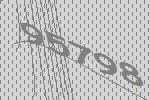
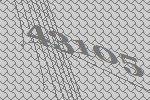
Data extraction works and is displayed in json, only when qr code is found.

diff --git a/src/autoavanza.py b/src/autoavanza.py
@@ -11,8 +11,11 @@ import hashlib
 import base64
 from streamlit_pdf_viewer import pdf_viewer
 from PIL import Image
+import urllib3
+from selenium.common.exceptions import WebDriverException
 
-from OCR import DataExtractor
+
+from OCR import TextExtractor
 from DocumentClassification import DocumentClassifier
 from Staging import Staging
 from QRExctraction import CFDIValidator
@@ -31,6 +34,15 @@ display_order = [
     "TARJETA CIRCULACION REVERSO",
     "REVISAR"
 ]
+
+documents_revised = [
+                    "FACTURA",
+                    "FACTURA REVERSO",
+                    "INE",
+                    "INE REVERSO",
+                    "TARJETA CIRCULACION",
+                    "TARJETA CIRCULACION REVERSO",
+                ]
 
 logo_path = "../assets/img/logo.png"
 
@@ -51,7 +63,7 @@ def process_and_classify(directory):
             for filename in os.listdir(os.path.join(directory, folder)):
                 if filename.endswith(".pdf") and filename != '.DS_Store':
                     pdf_path = os.path.join(directory, folder, filename)
-                    data_extractor = DataExtractor()
+                    data_extractor = TextExtractor()
                     image_path = data_extractor.convert_pdf_to_image(pdf_path)
                     results = data_extractor.image_to_text(image_path)
                     # data_extractor.delete_image(image_path)
@@ -64,6 +76,8 @@ def process_and_classify(directory):
 
 def get_file_hash(file):
     return hashlib.md5(file.getbuffer()).hexdigest()
+
+
 
 # Streamlit interface
 logo = Image.open(logo_path)
@@ -98,7 +112,6 @@ if uploaded_file is not None:
             return display_order.index(item[1]["type"]) if item[1]["type"] in display_order else len(display_order)
 
         sorted_documents_list = sorted(classified_documents_list, key=sort_key)
-        print(sorted_documents_list)
 
         st.markdown("## 📄 Revisar y Confirmar Clasificación")
 
@@ -158,30 +171,76 @@ if uploaded_file is not None:
 
         # Update the session state with the potentially renamed files
         st.session_state.classified_documents_data.update(updated_documents_data)
-        print(st.session_state.classified_documents_data)
         
         if st.button("✅ Apruebo Clasificación", key="aprobacion_clasificacion"):
             factura_file = None
+            document_files = {}
+
             for doc_info in st.session_state.classified_documents_data.values():
-                if doc_info["type"] == "FACTURA":
-                    factura_file = doc_info["filename"]
-                    break
-                if doc_info["type"] == "FACTURA REVERSO":
-                    factura_reverso_file = doc_info["filename"]
-                    break
-                if doc_info["type"] == "INE":
-                    factura_file = doc_info["filename"]
-                    break
-                if doc_info["type"] == "INE REVERSO":
-                    factura_file = doc_info["filename"]
-                    break
-                if doc_info["type"] == "TARJETA CIRCULACION":
-                    factura_file = doc_info["filename"]
-                    break
-                if doc_info["type"] == "TARJETA CIRCULACION REVERSO":
-                    factura_file = doc_info["filename"]
-                    break
-                
+                doc_type = doc_info["type"]
+                filename = doc_info["filename"]
+                text = doc_info["text"]
+
+                if doc_type in documents_revised:
+                    document_files[doc_type] = {"filename": filename, "text": text}
+
+                factura_file = document_files.get("FACTURA", {}).get("filename")
+                factura_text = document_files.get("FACTURA", {}).get("text")
+
+                factura_reverso_file = document_files.get("FACTURA REVERSO", {}).get("filename")
+                factura_reverso_text = document_files.get("FACTURA REVERSO", {}).get("text")
+
+                ine_file = document_files.get("INE", {}).get("filename")
+                ine_text = document_files.get("INE", {}).get("text")
+
+                ine_reverso_file = document_files.get("INE REVERSO", {}).get("filename")
+                ine_reverso_text = document_files.get("INE REVERSO", {}).get("text")
+
+                tarjeta_circulacion_file = document_files.get("TARJETA CIRCULACION", {}).get("filename")
+                tarjeta_circulacion_text = document_files.get("TARJETA CIRCULACION", {}).get("text")
+
+                tarjeta_circulacion_reverso_file = document_files.get("TARJETA CIRCULACION REVERSO", {}).get("filename")
+                tarjeta_circulacion_reverso_text = document_files.get("TARJETA CIRCULACION REVERSO", {}).get("text")
+
+            datos_factura = None
+            datos_factura_SAT = None
+            datos_factura_reverso = None
+            datos_ine = None
+            datos_tarjeta = None
+
+
+            if factura_file and os.path.exists(factura_file):
+                input_message = '\n'.join(factura_text)
+                factura_data_extractor = FacturaDataExtractor(input_message, GEMINI_API_KEY)
+                st.session_state.datos_factura = factura_data_extractor.extraer_datos()
+
+            else:
+                st.error("⚠ No se encontró ningún archivo clasificado como FACTURA.")
+
+            
+            if factura_reverso_file and os.path.exists(factura_reverso_file):
+                input_message = '\n'.join(factura_reverso_text)
+                factura_data_extractor = FacturaReversoDataExtractor(input_message, GEMINI_API_KEY)
+                st.session_state.datos_factura_reverso = factura_data_extractor.extraer_datos()
+            else:
+                st.error("⚠ No se encontró ningún archivo clasificado como FACTURA REVERSO.")
+
+            
+            if ine_file and os.path.exists(ine_file):
+                input_message = '\n'.join(ine_text)
+                ine_data_extractor = INEDataExtractor(input_message, GEMINI_API_KEY)
+                st.session_state.datos_ine = ine_data_extractor.extraer_datos()
+            else:
+                st.error("⚠ No se encontró ningún archivo clasificado como INE.")
+
+            
+            if tarjeta_circulacion_file and os.path.exists(tarjeta_circulacion_file):
+                input_message = '\n'.join(tarjeta_circulacion_text)
+                tarjeta_data_extractor = TarjetCirculacionDataExtractor(input_message, GEMINI_API_KEY)
+                st.session_state.datos_tarjeta = tarjeta_data_extractor.extraer_datos()
+            else:
+                st.error("⚠ No se encontró ningún archivo clasificado como TARJETA CIRCULACION.")
+
 
             if factura_file and os.path.exists(factura_file):
                 validator = CFDIValidator(factura_file)
@@ -201,21 +260,6 @@ if uploaded_file is not None:
             else:
                 st.error("⚠ No se encontró ningún archivo clasificado como FACTURA.")
 
-            
-            if factura_reverso_file and os.path.exists(factura_reverso_file):
-                validator = CFDIValidator(factura_reverso_file)
-                urls = validator.extract_url_from_qr()
-
-                if urls:
-                    st.success("Código QR encontrado en factura reverso.")
-                    validator.open_browser(urls[0])
-
-                    captcha_path = validator.save_captcha_image_for_streamlit()
-
-                    if os.path.exists(captcha_path):
-                        st.session_state.validator = validator
-                        st.session_state.captcha_path = captcha_path
-                        st.session_state.captcha_attempts = 0
 
 
     if "validator" in st.session_state and "captcha_path" in st.session_state:
@@ -226,25 +270,63 @@ if uploaded_file is not None:
             user_code = st.text_input("Código CAPTCHA", key=input_key)
 
             if st.form_submit_button("🔐 Validar Código"):
-                st.session_state.captcha_attempts += 1
-                datos_factura = st.session_state.validator.extract_data_with_code(user_code)
+                try:
+                    st.session_state.captcha_attempts += 1
+                    datos_factura_SAT = st.session_state.validator.extract_data_with_code(user_code)
 
-                if datos_factura:
-                    st.success("✅ Datos extraídos correctamente:")
-                    st.json(datos_factura)
-                    st.session_state.validator.close_browser()
-                    for key in ["captcha_attempts", "validator", "captcha_path"]:
-                        del st.session_state[key]
-                else:
-                    if st.session_state.captcha_attempts < 3:
-                        st.warning(f"Intento {st.session_state.captcha_attempts}/3 fallido. Intenta nuevamente.")
-                        new_path = st.session_state.validator.save_captcha_image_for_streamlit()
-                        st.session_state.captcha_path = new_path
-                        st.rerun()
-                    else:
-                        st.error("❌ Se alcanzó el número máximo de intentos.")
+                    if datos_factura_SAT:
+                        st.success("✅ Datos extraídos correctamente del SAT")
+
+                        st.markdown("## ✅ Otros Datos Extraídos")
+
+                        if "datos_factura" in st.session_state:
+                            st.subheader("📄 Datos de la Factura")
+                            st.json(st.session_state.datos_factura)
+
+                        st.subheader("📄 Datos del SAT")
+                        st.json(datos_factura_SAT)
+
+                        if "datos_factura_reverso" in st.session_state:
+                            st.subheader("📄 Datos del Reverso de la Factura")
+                            st.json(st.session_state.datos_factura_reverso)
+
+                        if "datos_ine" in st.session_state:
+                            st.subheader("🪪 Datos del INE")
+                            st.json(st.session_state.datos_ine)
+
+                        if "datos_tarjeta" in st.session_state:
+                            st.subheader("🚗 Datos de la Tarjeta de Circulación")
+                            st.json(st.session_state.datos_tarjeta)
+
+                        # Clean up session state
                         st.session_state.validator.close_browser()
                         for key in ["captcha_attempts", "validator", "captcha_path"]:
                             del st.session_state[key]
+
+                    else:
+                        if st.session_state.captcha_attempts < 3:
+                            st.warning(f"Intento {st.session_state.captcha_attempts}/3 fallido. Intenta nuevamente.")
+                            new_path = st.session_state.validator.save_captcha_image_for_streamlit()
+                            st.session_state.captcha_path = new_path
+                            st.rerun()
+                        else:
+                            st.error("❌ Se alcanzó el número máximo de intentos.")
+                            st.session_state.validator.close_browser()
+                            for key in ["captcha_attempts", "validator", "captcha_path"]:
+                                del st.session_state[key]
+
+                except (urllib3.exceptions.MaxRetryError, WebDriverException, ConnectionRefusedError) as e:
+                    st.error("❌ Error al conectar con el navegador. Intenta reiniciar el proceso.")
+
+                    if "validator" in st.session_state:
+                        try:
+                            st.session_state.validator.close_browser()
+                        except:
+                            pass
+
+                    for key in ["captcha_attempts", "validator", "captcha_path"]:
+                        if key in st.session_state:
+                            del st.session_state[key]
+
 
 

diff --git a/src/OCR.py b/src/OCR.py
@@ -7,7 +7,7 @@ from Foundation import NSDictionary
 from wurlitzer import pipes
 from pdf2image import convert_from_path
 
-class DataExtractor:
+class TextExtractor:
     """
     A class to process PDF and image documents using Apple's Vision framework and pdf2image.
 
